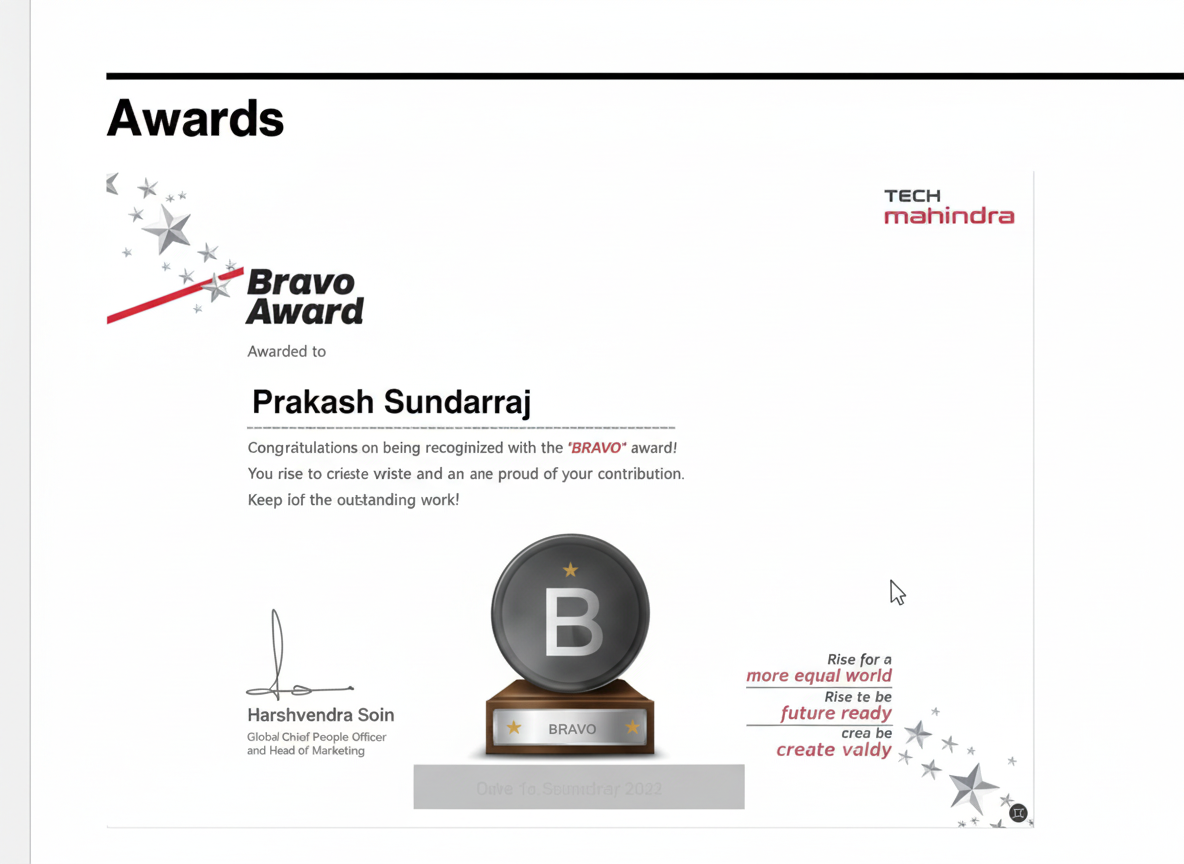
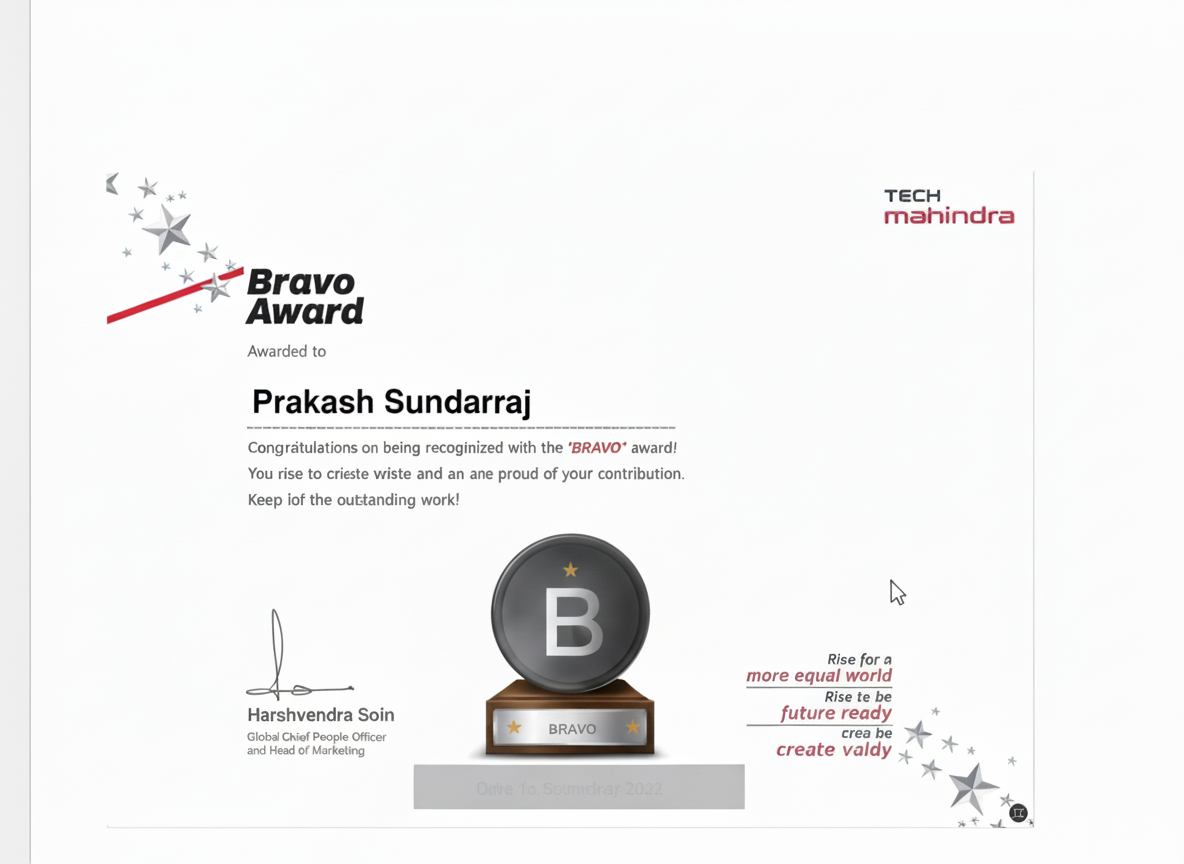
Update awards image crop

Changed region(s): [[0.0938, 0.0625, 1.0, 0.1562]]

diff --git a/src/pages/CaseStudyUniversalCart.tsx b/src/pages/CaseStudyUniversalCart.tsx
@@ -470,6 +470,18 @@ const UniversalCartCaseStudy = () => {
               <img src={appreciationImg} alt="Stakeholder appreciation email for Pause & Resume design contributions" className="w-full" />
             </motion.div>
           </Section>
+
+          <Section title="9. Awards">
+            <motion.div
+              initial={{ opacity: 0, y: 20 }}
+              whileInView={{ opacity: 1, y: 0 }}
+              viewport={{ once: true }}
+              transition={{ duration: 0.5 }}
+              className="overflow-hidden rounded-xl border border-border shadow-md"
+            >
+              <img src={awardsImg} alt="Bravo Award certificate awarded to Prakash Sundarraj by Tech Mahindra" className="w-full" />
+            </motion.div>
+          </Section>
         </div>
       </main>
       <Footer />
